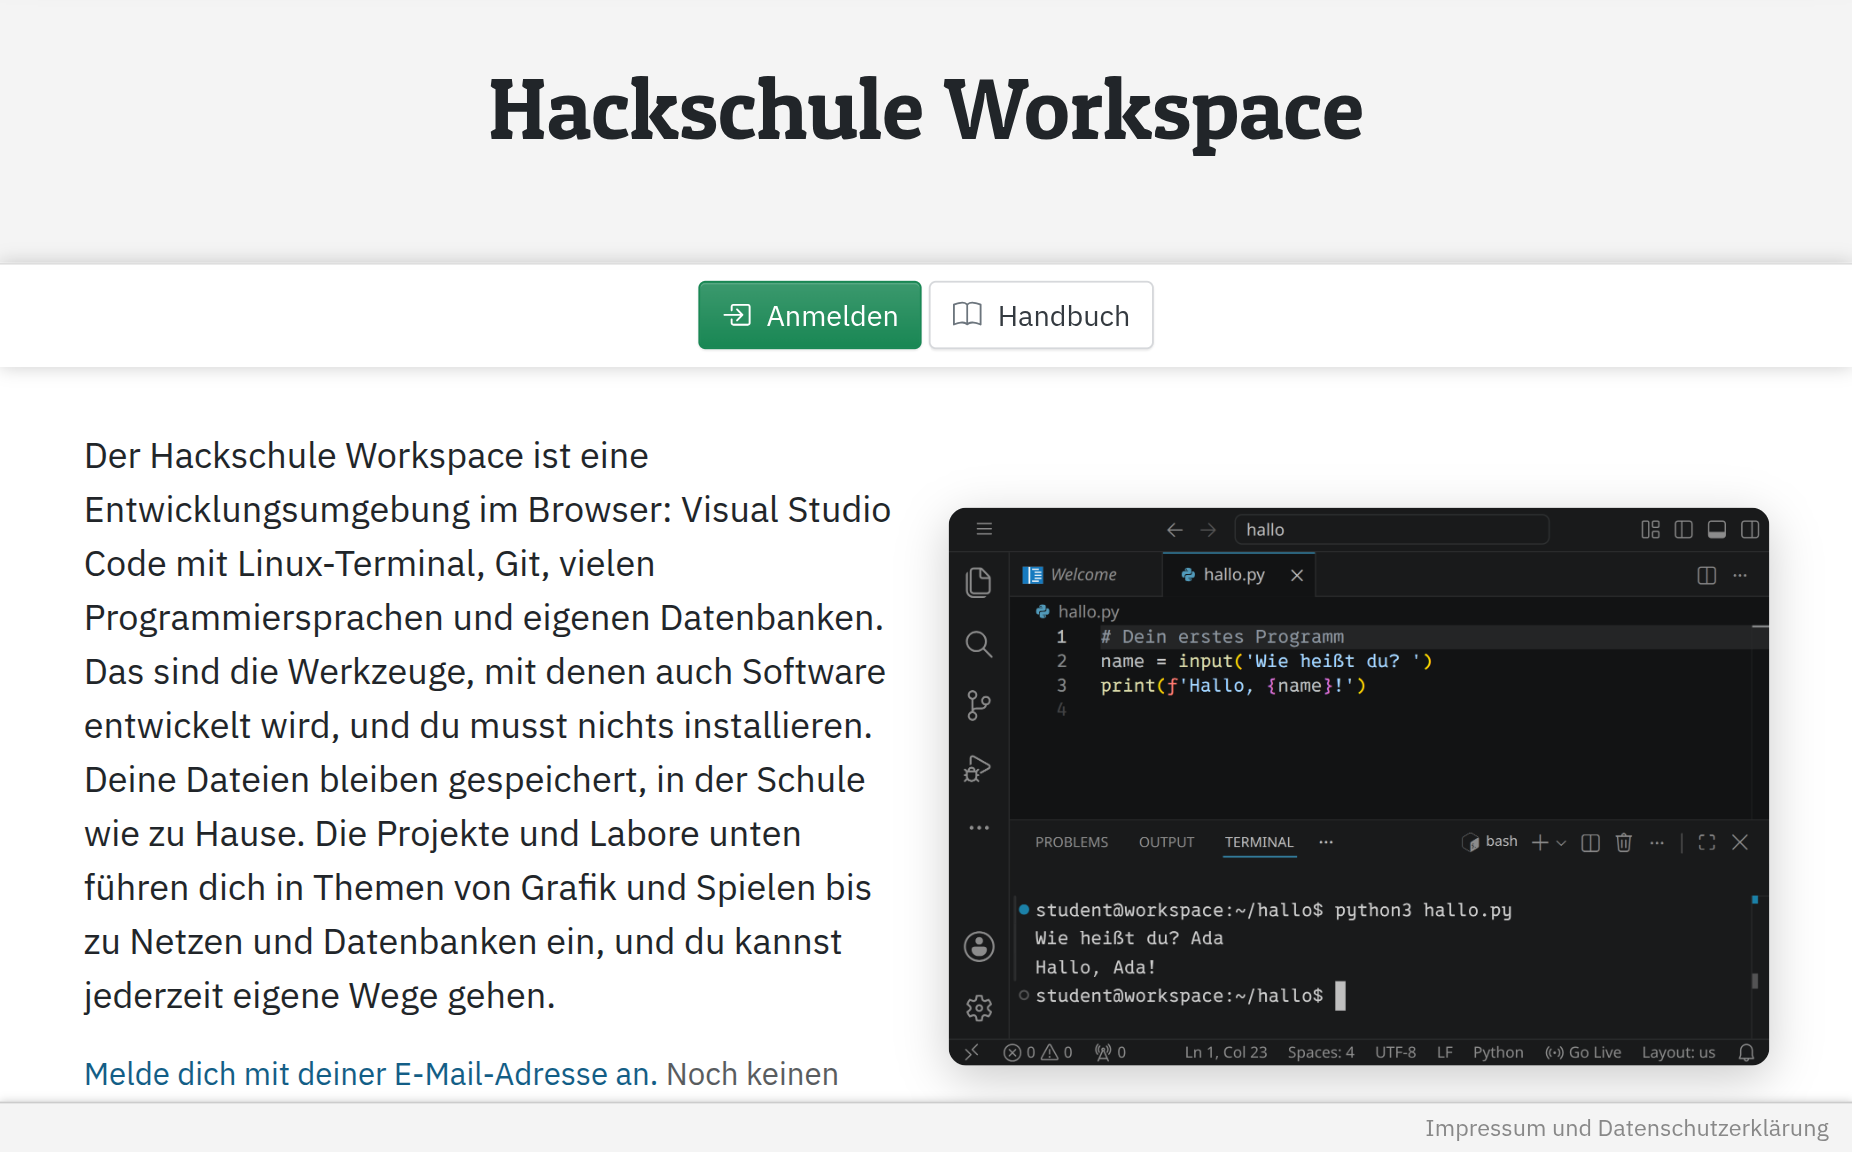
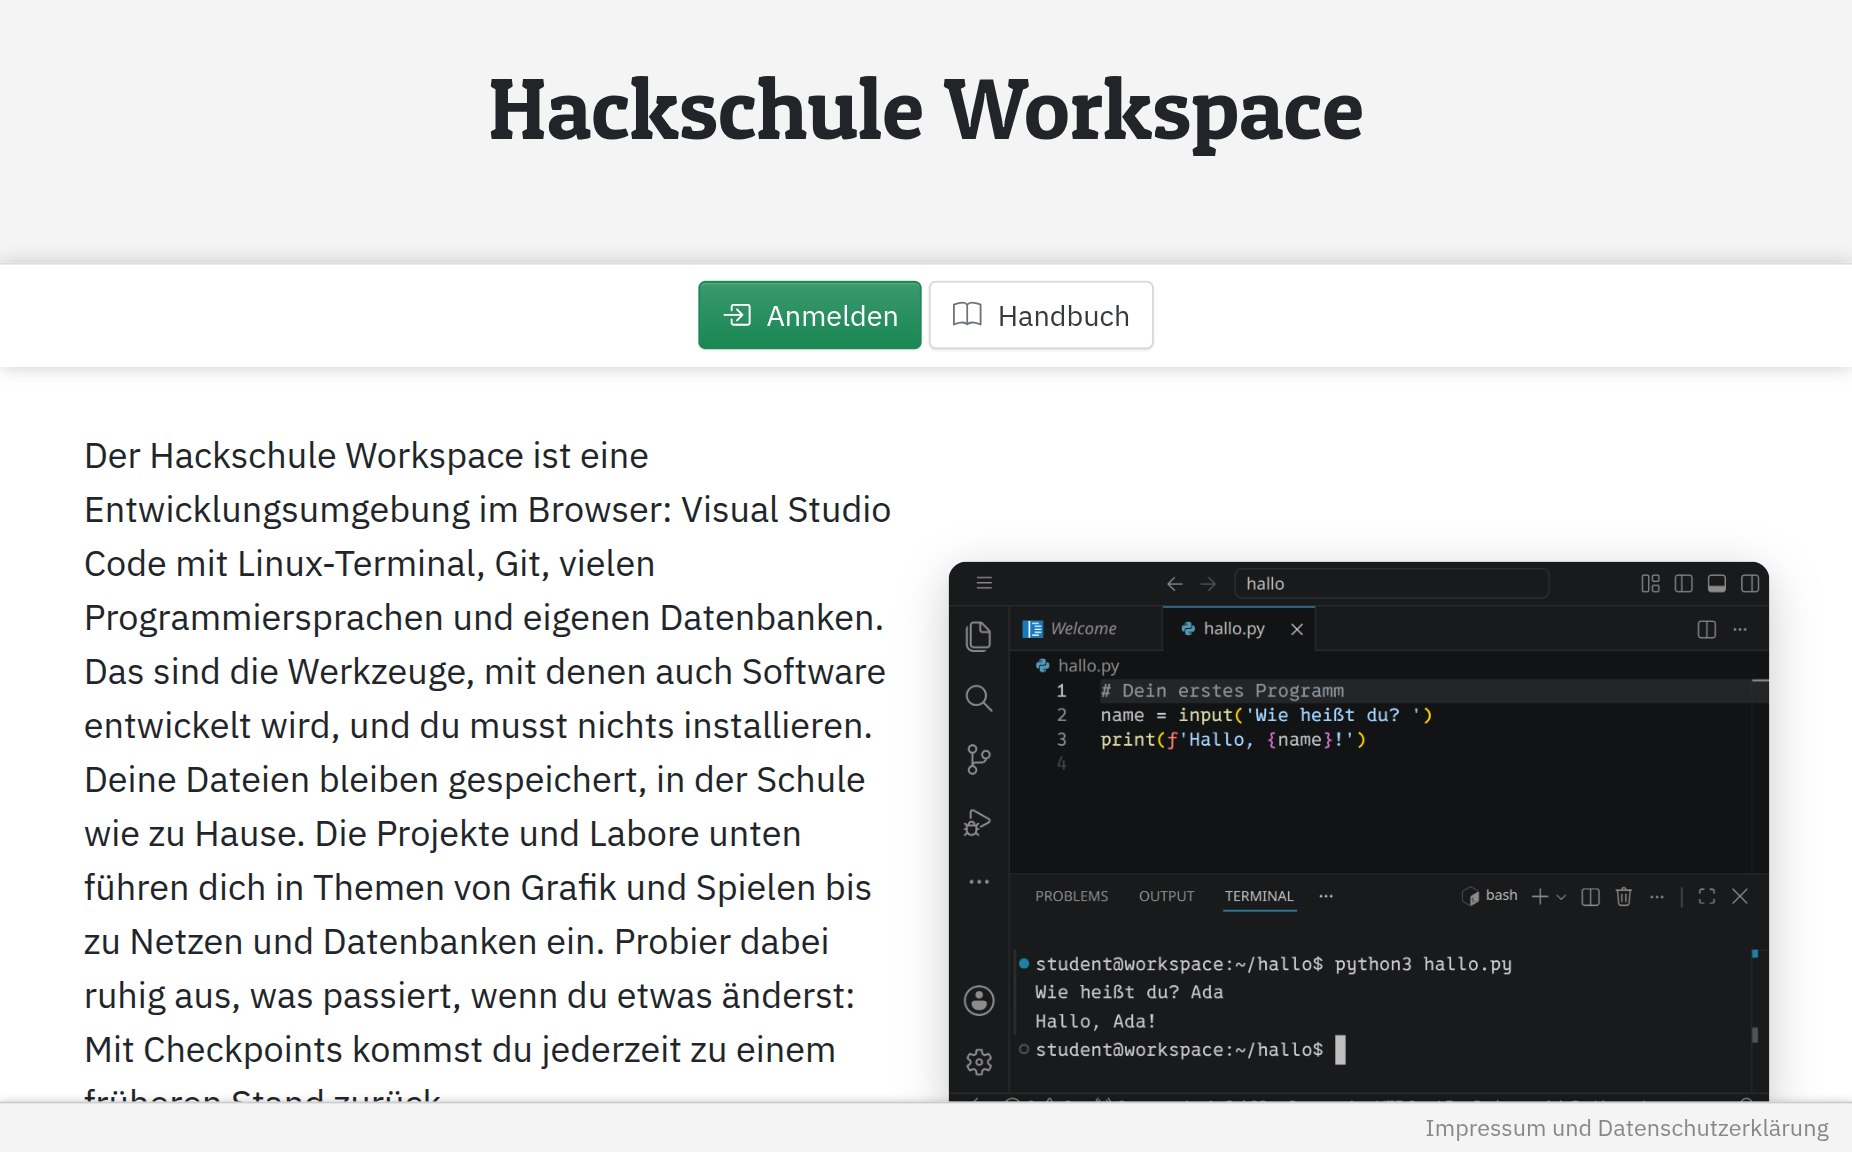
Front page: invite to experiment, with checkpoints to go back

diff --git a/src/static/index.html b/src/static/index.html
@@ -24,7 +24,8 @@
                         Linux-Terminal, Git, vielen Programmiersprachen und eigenen Datenbanken. Das sind die Werkzeuge,
                         mit denen auch Software entwickelt wird, und du musst nichts installieren. Deine Dateien bleiben
                         gespeichert, in der Schule wie zu Hause. Die Projekte und Labore unten führen dich in Themen von
-                        Grafik und Spielen bis zu Netzen und Datenbanken ein, und du kannst jederzeit eigene Wege gehen.
+                        Grafik und Spielen bis zu Netzen und Datenbanken ein. Probier dabei ruhig aus, was passiert, wenn
+                        du etwas änderst: Mit Checkpoints kommst du jederzeit zu einem früheren Stand zurück.
                     </p>
                     <p class='front-hero-login'>
                         <a href='/login'>Melde dich mit deiner E-Mail-Adresse an.</a>
